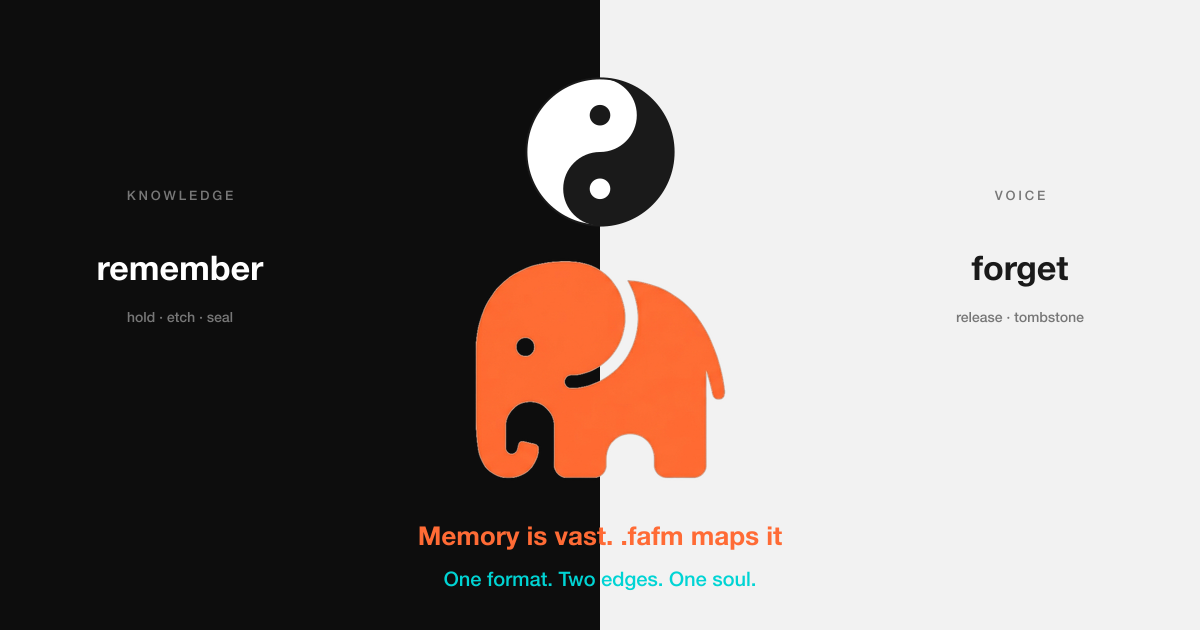
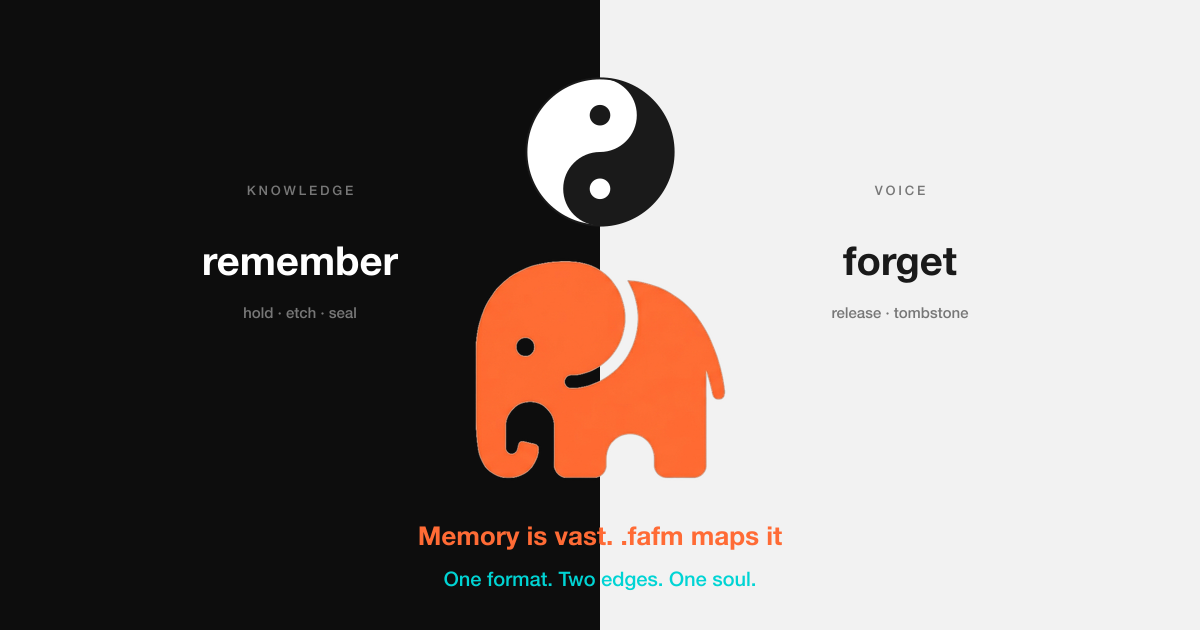
blog: Memory is vast hero — center dual type on square midlines
remember / forget (and labels) text-anchor middle on LEFT_CX=300 and
RIGHT_CX=900. Nelly still crosses the seam. Locked copy. ?v=8.

diff --git a/src/routes/blog/memory-is-vast/+page.svelte b/src/routes/blog/memory-is-vast/+page.svelte
@@ -28,8 +28,8 @@ One format. Two edges. One soul.`;
 	<meta property="og:type" content="article" />
 	<meta property="og:url" content="https://faf.one/blog/memory-is-vast" />
 	<meta property="og:site_name" content=".faf Format Authority" />
-	<meta property="og:image" content="https://faf.one/blog/memory-is-vast-hero.png?v=7" />
-	<meta property="og:image:secure_url" content="https://faf.one/blog/memory-is-vast-hero.png?v=7" />
+	<meta property="og:image" content="https://faf.one/blog/memory-is-vast-hero.png?v=8" />
+	<meta property="og:image:secure_url" content="https://faf.one/blog/memory-is-vast-hero.png?v=8" />
 	<meta property="og:image:type" content="image/png" />
 	<meta property="og:image:width" content="1200" />
 	<meta property="og:image:height" content="630" />
@@ -45,7 +45,7 @@ One format. Two edges. One soul.`;
 		name="twitter:description"
 		content="One format. Two edges. One soul."
 	/>
-	<meta name="twitter:image" content="https://faf.one/blog/memory-is-vast-hero.png?v=7" />
+	<meta name="twitter:image" content="https://faf.one/blog/memory-is-vast-hero.png?v=8" />
 </svelte:head>
 
 <div class="blog-post">
@@ -65,7 +65,7 @@ One format. Two edges. One soul.`;
 
 	<div class="hero-image">
 		<img
-			src="/blog/memory-is-vast-hero.png?v=7"
+			src="/blog/memory-is-vast-hero.png?v=8"
 			alt="Memory is vast. .fafm maps it — split dual · yin-yang · orange Nelly · One format. Two edges. One soul."
 			width="1200"
 			height="630"
